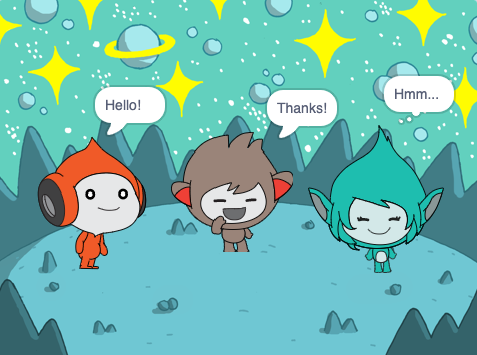
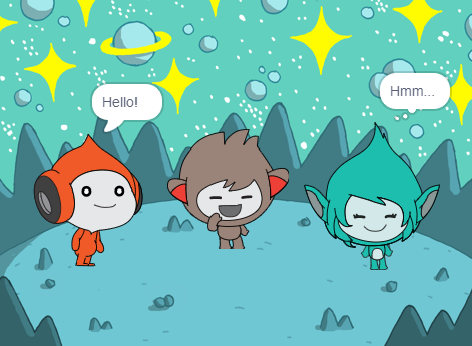
some light reviewing and changes to sign language

diff --git a/en/step_5.md b/en/step_5.md
@@ -1,11 +1,11 @@
-## Nano switches costumes
+## Nano switches costume
 
 <div style="display: flex; flex-wrap: wrap">
 <div style="flex-basis: 200px; flex-grow: 1; margin-right: 15px;">
 
 You will get Nano to emote by switching **costumes**.
 
-Sprites have **costumes** to change the way that they look. To animate a sprite, you can change its costumes.
+Sprites have **costumes** to change the way that they look. To animate a sprite, you can change its costume.
 
 </div>
 <div>
@@ -15,7 +15,7 @@ Sprites have **costumes** to change the way that they look. To animate a sprite,
 </div>
 </div>
 
-### Nano says "Thanks!"
+### Nano signs "Thanks!"
 
 --- task ---
 
@@ -32,30 +32,32 @@ Make sure that the **Nano** sprite is selected in the Sprite list below the Stag
 ![The Sprite list, with a blue border around the Nano sprite to show that Nano is selected.](images/nano-selected.png)
 
 
-Click on the **Code** tab and add a script to get the **Nano** sprite to `say`{:class="block3looks"} `Thanks!`:
+Click on the **Code** tab and add a script to get the **Nano** sprite to sign 'Thanks' using `switch costume to`{:class="block3looks"} and `wait`{:class="block3control"}:
 
 ![The Nano sprite.](images/nano-sprite.png)
 
 ```blocks3
 when this sprite clicked // when Nano is clicked
 switch costume to [nano-b v] // Nano talking
-say [Thanks!] for [2] seconds // try 1 instead of 2
+wait (0.5) seconds // try 0.25 instead of 0.5
 switch costume to [nano-a v] // Nano smiling
 ```
 --- /task ---
 
-**Tip:** All the blocks are colour-coded, so you will find the `switch costume to`{:class="block3looks"} block in the `Looks`{:class="block3looks"} blocks menu.
+**Tip:** All the blocks are colour-coded, so you will find the `switch costume to`{:class="block3looks"} block in the `Looks`{:class="block3looks"} blocks menu and the `wait`{:class="block3control"} block in the `Looks`{:class="block3control"} blocks menu.
 
 --- task ---
 
-**Test:** Click on the **Nano** sprite on the Stage and check that the speech bubble appears and Nano's costume changes.
+**Test:** Click on the **Nano** sprite on the Stage and check that Nano's costume changes.
 
 --- /task ---
 
 ### Nano uses sign language
 
-<p style="border-left: solid; border-width:10px; border-color: #0faeb0; background-color: aliceblue; padding: 10px;">Millions of people use sign language to communicate. A common sign for 'thank you' is **bringing your right hand up to your mouth**. 
+<p style="border-left: solid; border-width:10px; border-color: #0faeb0; background-color: aliceblue; padding: 10px;">Millions of people use sign language to communicate. A common way to sign 'Thank you' is to place your fingers on your chin with your hand as flat as possible. You then move your hand forwards, away from your chin and slightly down. 
 </p>
+
+<!-- Add a video of someone signing -->
 
 Nano will use sign language by switching costumes. 
 

diff --git a/en/step_4.md b/en/step_4.md
@@ -17,6 +17,8 @@ Click on the **Sounds** tab for the **Pico** sprite and you will find a **pop** 
 
 ![Playing the pop sound in the Sounds tab.](images/pico-sound-play.png)
 
+**Debug**: If you cannot hear a sound then check that sound is working on your computer or tablet.
+
 --- /task ---
 
 There are some fantastic alien sounds in Scratch that you can add to your sprite.
@@ -71,7 +73,7 @@ Check that your `start sound`{:class="block3sound"} block has your chosen sound 
 
 --- task ---
 
-**Test:** Click on the **Pico** sprite and check that the speech bubble appears and you can hear the sound. If you do not hear the sound, make sure that you have added the `start sound`{:class="block3sound"} block under the `when this sprite clicked`{:class="block3events"} block. Also, check that the sound is working on your computer or tablet.
+**Test:** Click on the **Pico** sprite and check that the speech bubble appears and you can hear the sound. If you do not hear the sound, make sure that you have added the `start sound`{:class="block3sound"} block under the `when this sprite clicked`{:class="block3events"} block. 
 
 --- /task ---
 

diff --git a/en/step_3.md b/en/step_3.md
@@ -15,6 +15,10 @@ You will add code blocks to make Pico emote with words and sound when the sprite
 
 To use blocks, you can click on them in the Blocks menu.
 
+<p style="border-left: solid; border-width:10px; border-color: #0faeb0; background-color: aliceblue; padding: 10px;">
+<span style="color: #0faeb0">**Emotes**</span> are a way of showing the personality of a character in a game. They can use speech, sounds, movement, and graphic effects, just like in Scratch. Do you play any games that use emotes?
+</p>
+
 --- task ---
 
 Open the `Looks`{:class="block3looks"} blocks menu. 
@@ -74,6 +78,14 @@ If you have time when you have finished your project, it is a good idea to add c
 --- task ---
 
 **Test:** Click on the **Pico** sprite on the Stage and check that the speech bubble appears for two seconds. It is important to test your code to make sure that it does what you expect.
+
+--- /task ---
+
+--- task ---
+
+You have already saved your project and given it a name. Scratch will now **automatically** save for you. 
+
+You can still click save if you like, just to make sure. 
 
 --- /task ---
 

diff --git a/en/step_8.md b/en/step_8.md
@@ -11,6 +11,10 @@ Add the **Tera** sprite and use any of the blocks that you have learned about to
 </div>
 </div>
 
+You could also use the Text to Speech extension to make **Tera** speak out loud:
+
+[[[scratch3-text-to-speech]]]
+
 The **Tera** sprite's personality is your choice, so have fun using your own creative ideas.
 
 ```blocks3
@@ -26,6 +30,8 @@ think [Hmm...] for [2] seconds
 
 switch costume to [tera-d v]
 
+wait (1) seconds // 0.5 is half a second
+
 set [color v] effect to [0] // number up to 200
 
 clear graphic effects
@@ -33,6 +39,8 @@ clear graphic effects
 play sound [pop v] until done
 
 start sound [pop v]
+
+speak [hello]
 ```
 
 You can also 'remix' the project to make any changes you like. You could change the backdrop, and how the sprites emote, and even choose different sprites and give them emotes.

diff --git a/en/step_1.md b/en/step_1.md
@@ -2,9 +2,7 @@
 
 In this project, you will create a space scene with characters that 'emote' to share their thoughts or feelings.
 
-<p style="border-left: solid; border-width:10px; border-color: #0faeb0; background-color: aliceblue; padding: 10px;">
-<span style="color: #0faeb0">**Emotes**</span> are a way of showing the personality of a character in a game. They can use speech, sounds, movement, and graphic effects, just like in Scratch. Do you play any games that use emotes?
-</p>
+
 
 In Scratch, characters and objects are called **sprites**, and they appear on the **Stage**. 
 

diff --git a/en/step_2.md b/en/step_2.md
@@ -91,7 +91,7 @@ Drag the **Pico** sprite to position them on the left-hand side of the Stage. Yo
 
 --- task ---
 
-If you are signed in to your Scratch account, click on the green Remix button. This will save a copy of the project to your Scratch account.
+**Save**: If you are signed in to your Scratch account, click on the green Remix button. This will save a copy of the project to your Scratch account.
 
 ![The remix button.](images/remix-button.png)
 
